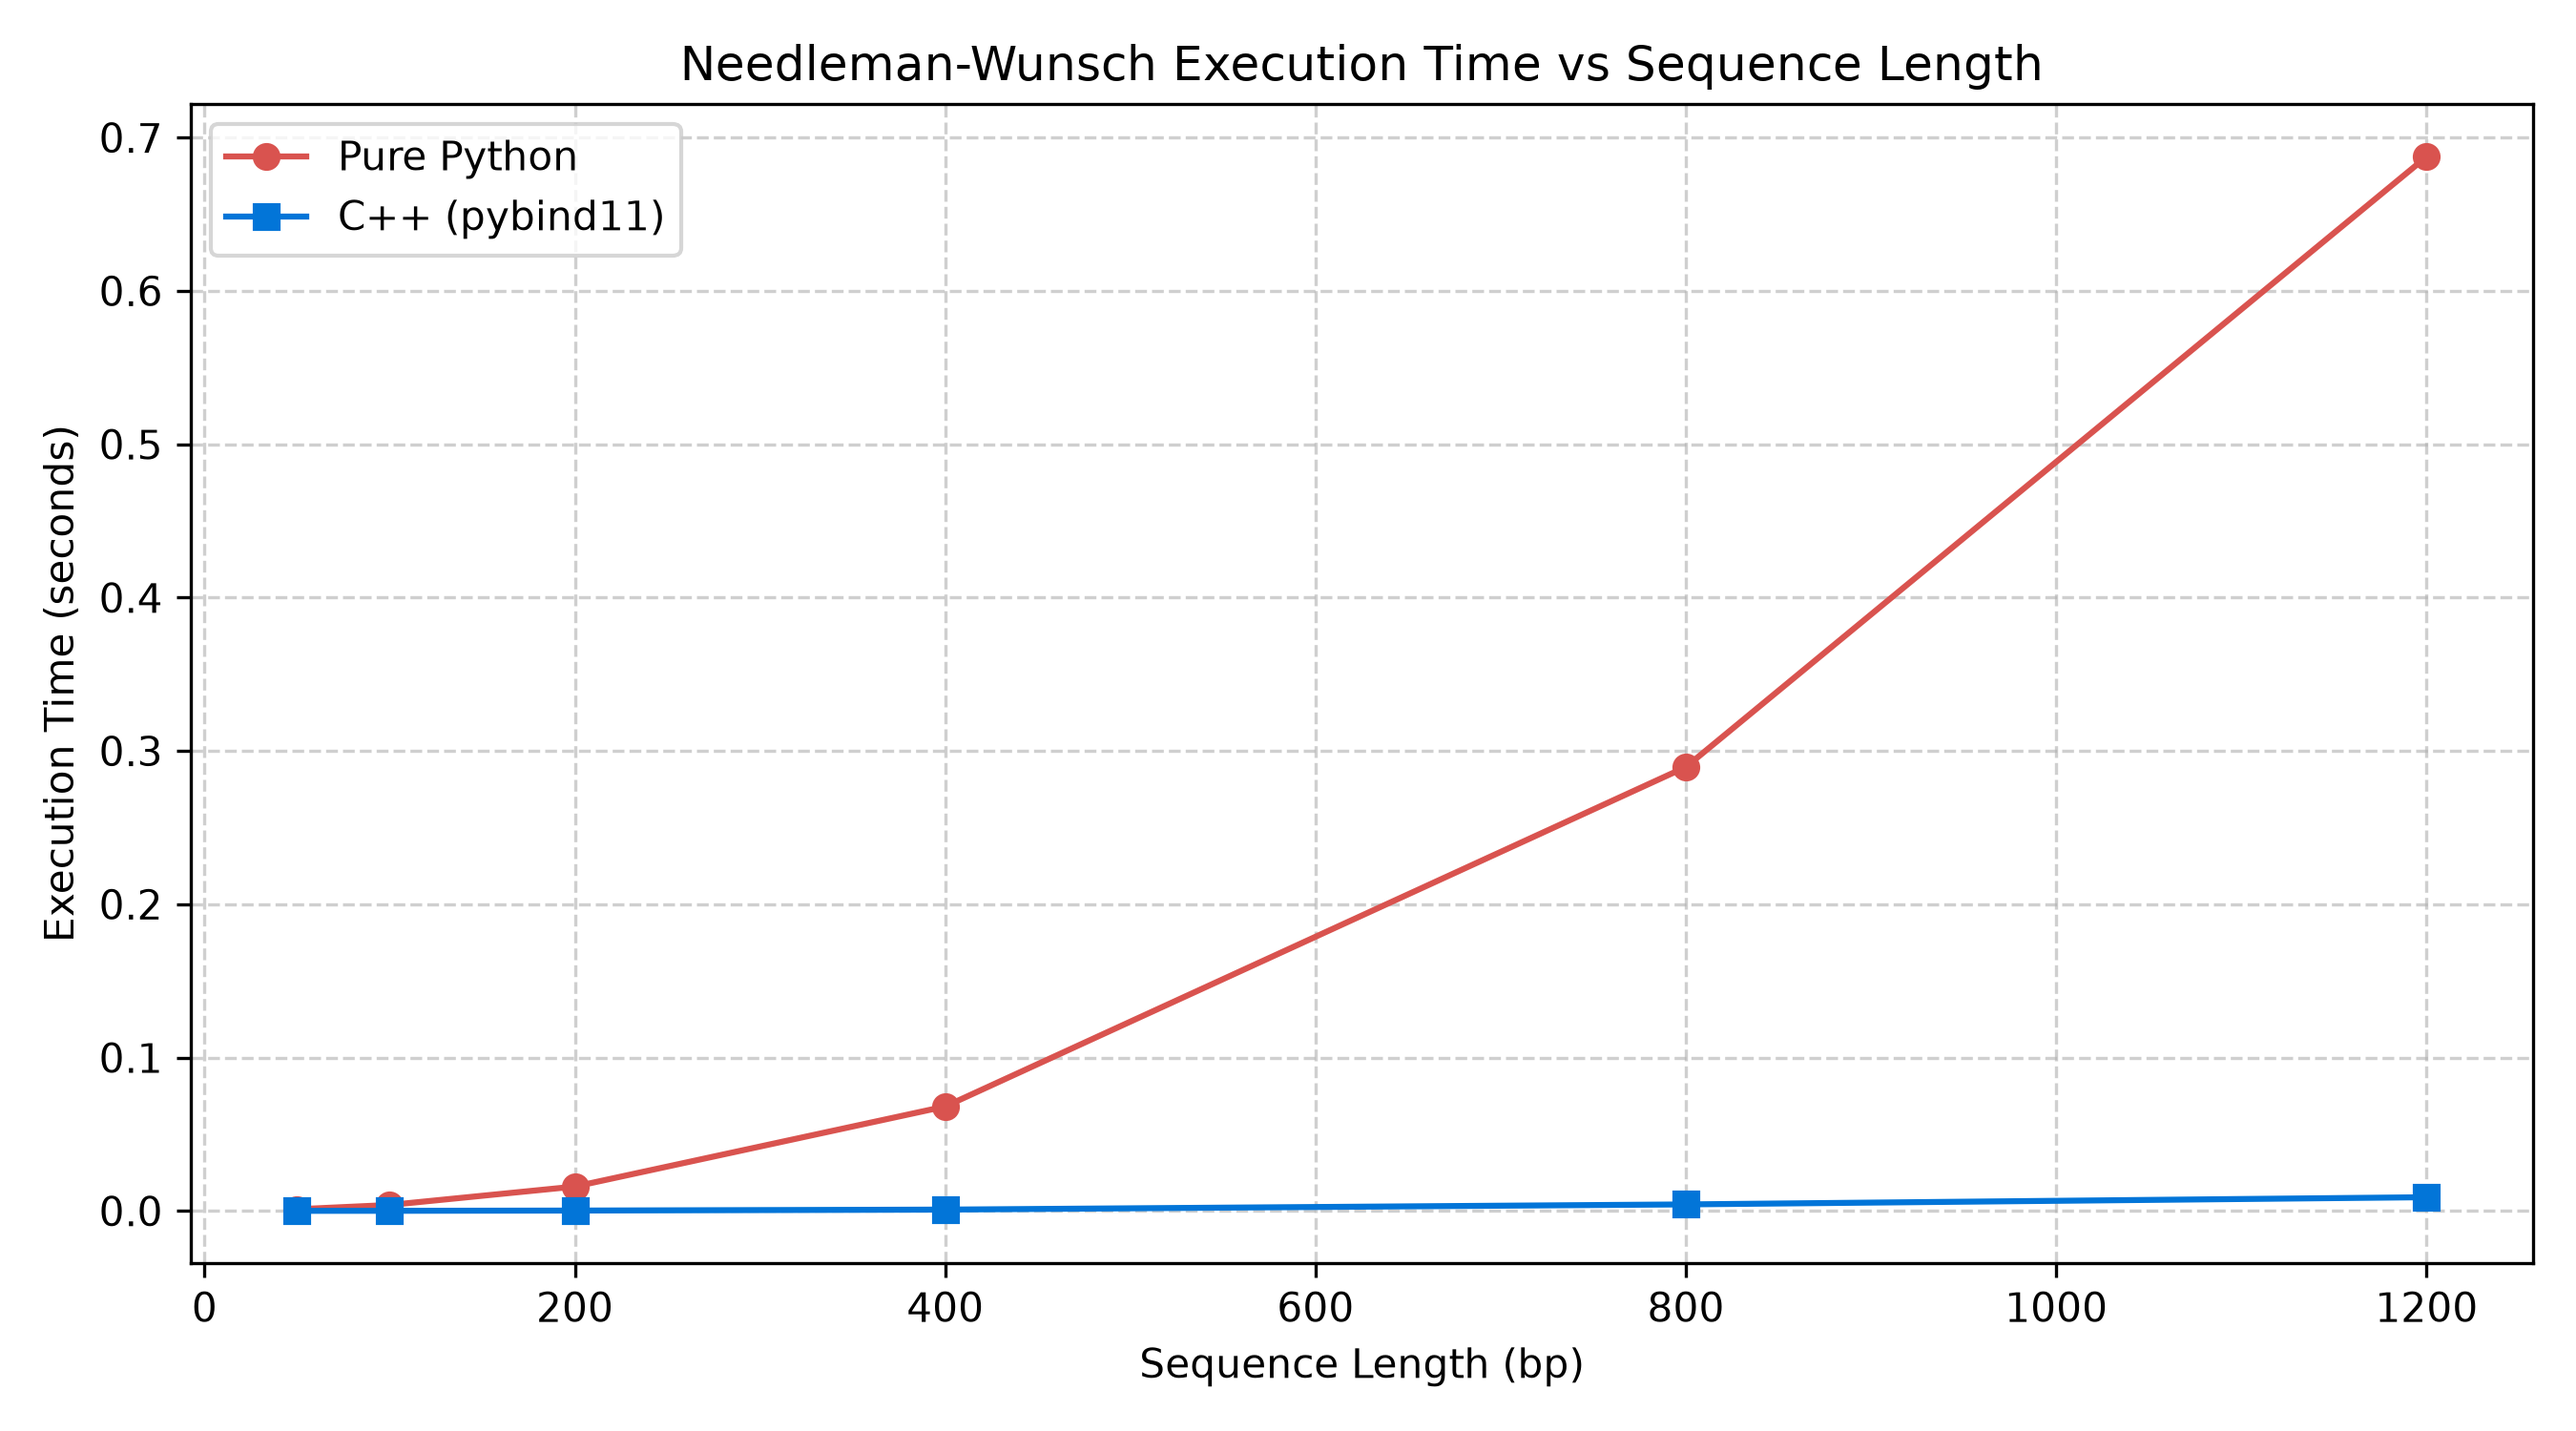
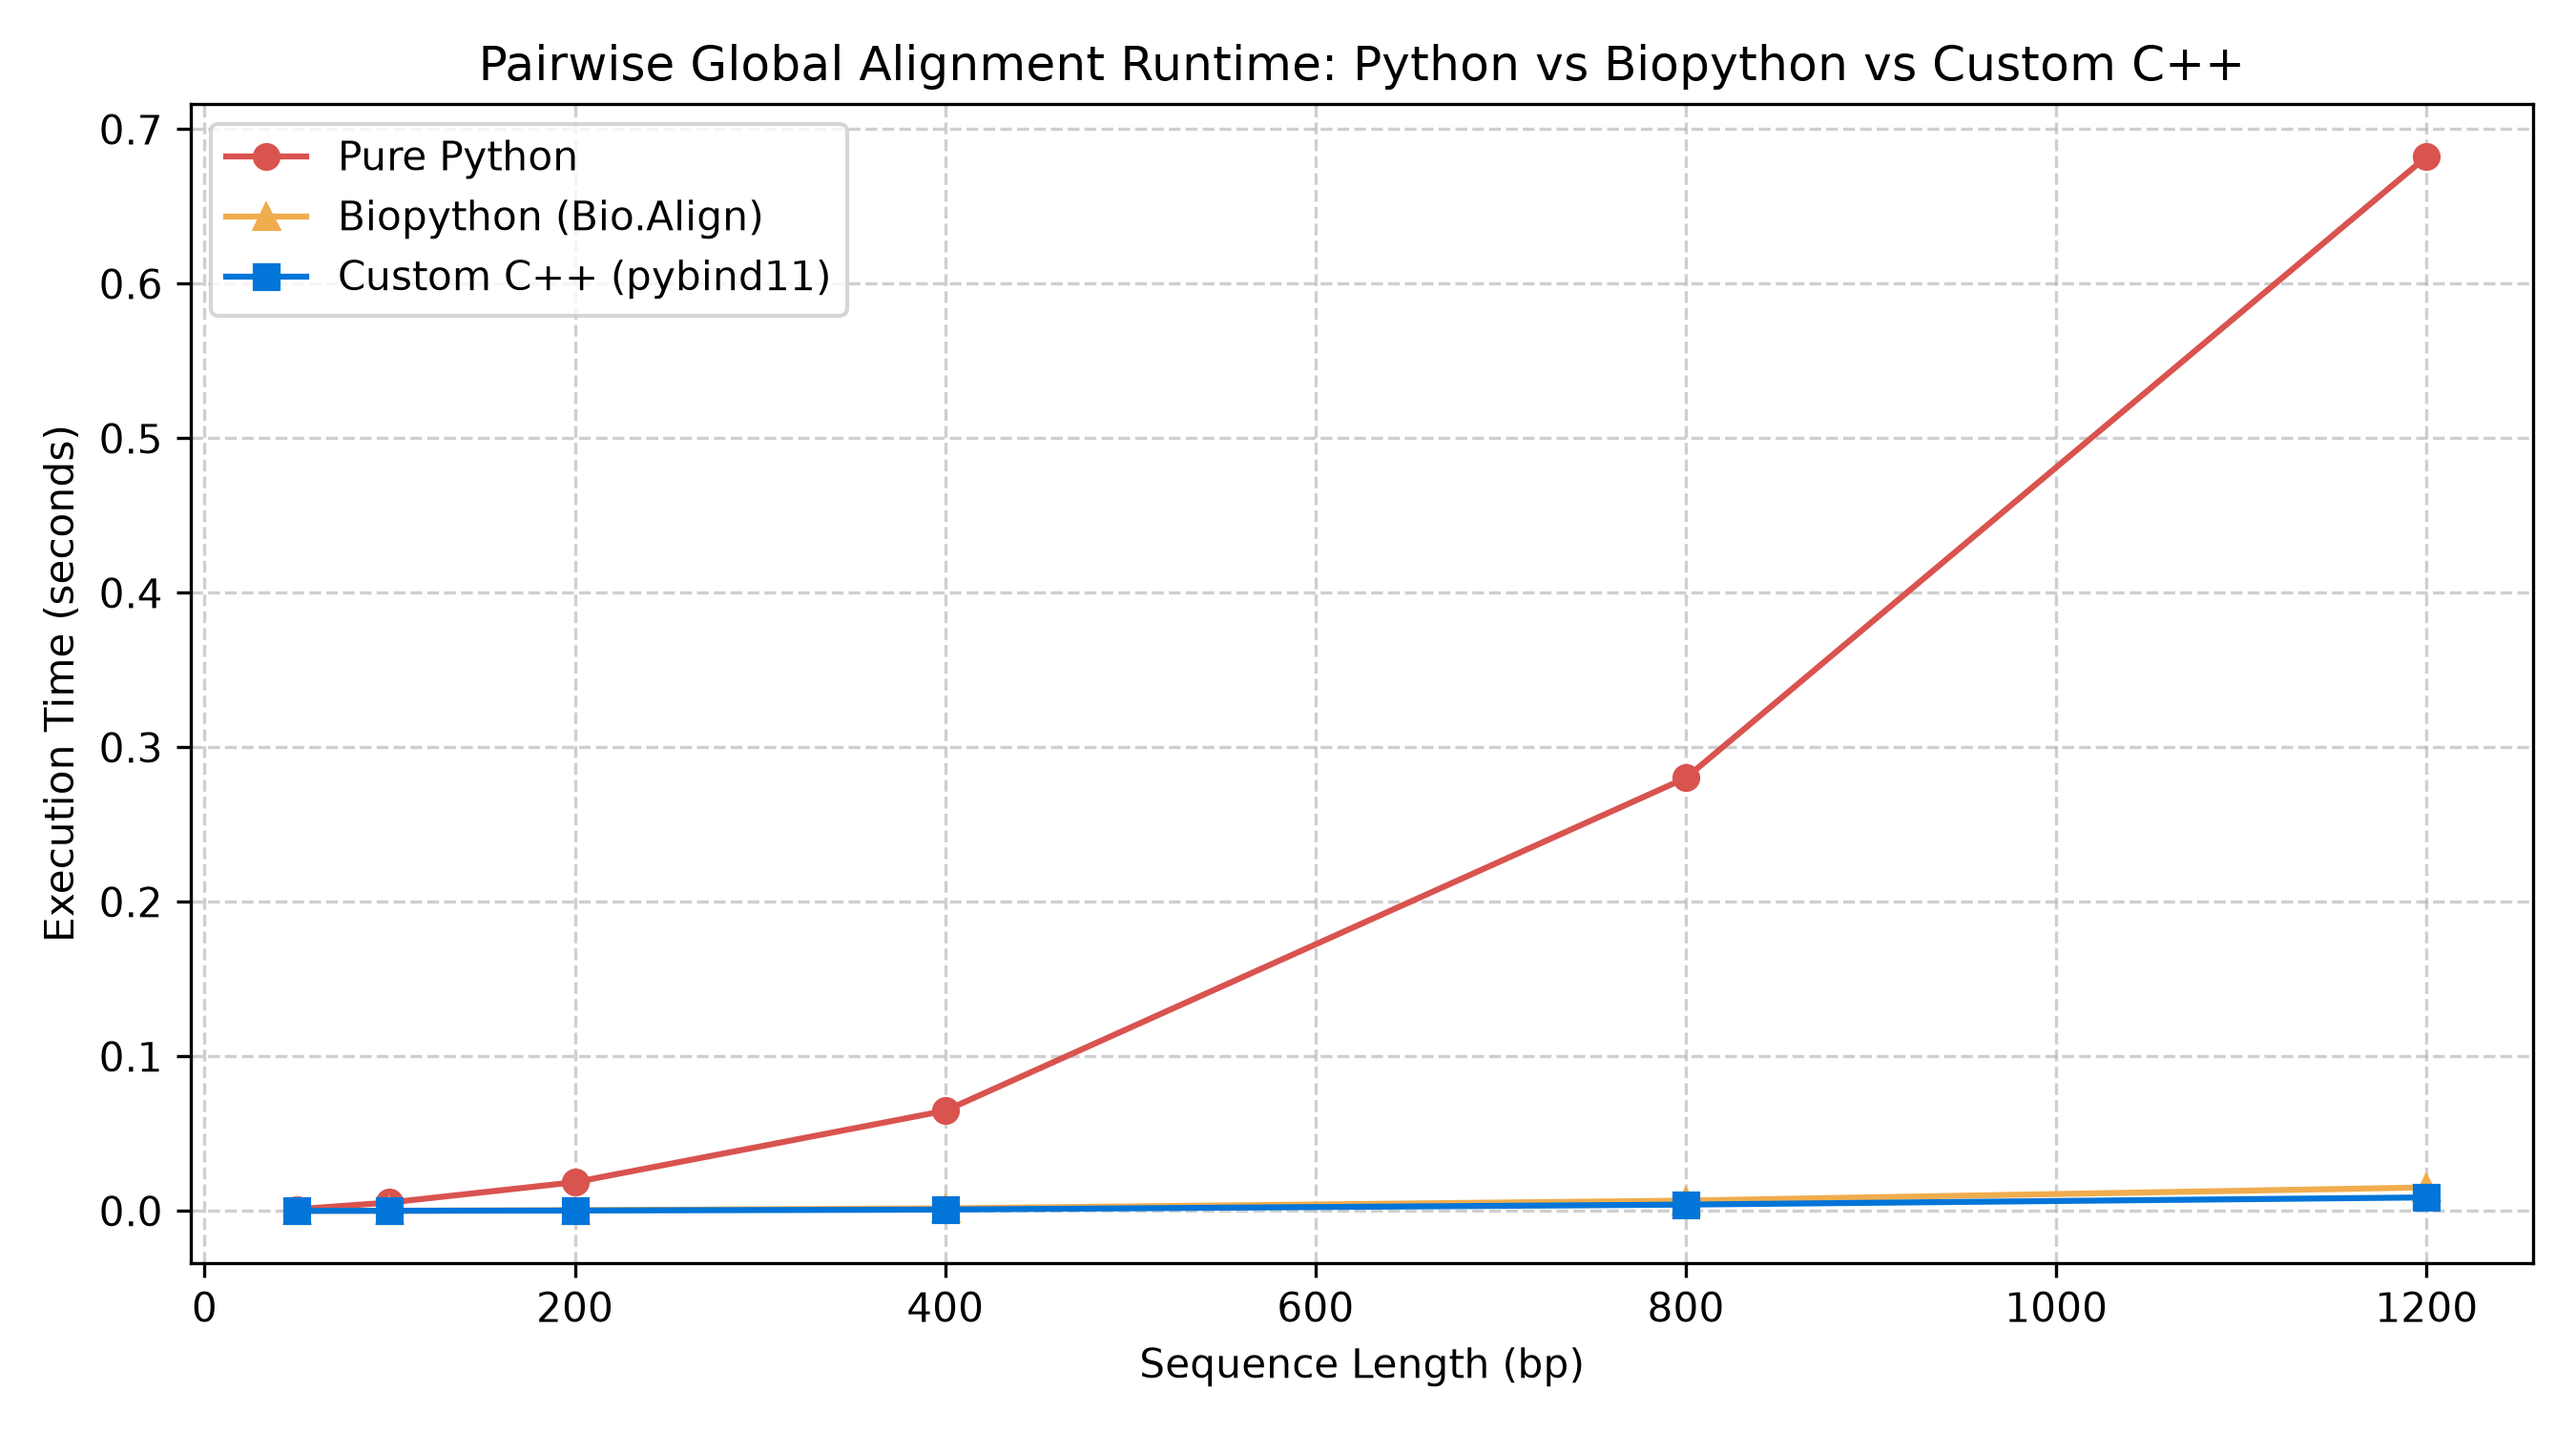
docs: finalize README with 3-way biopython benchmarks and complete usage guide

diff --git a/benchmark.py b/benchmark.py
@@ -3,10 +3,18 @@ import random
 import matplotlib.pyplot as plt
 from aligner import SequenceAligner
 
+try:
+    from Bio.Align import PairwiseAligner
+    BIOPYTHON_AVAILABLE = True
+except ImportError:
+    BIOPYTHON_AVAILABLE = False
+
+
 def generate_random_sequence(length: int) -> str:
     return "".join(random.choices(["A", "C", "G", "T"], k=length))
 
-def time_alignment(aligner_instance, s1: str, s2: str, runs: int = 3) -> float:
+
+def time_custom_aligner(aligner_instance, s1: str, s2: str, runs: int = 3) -> float:
     times = []
     for _ in range(runs):
         start = time.perf_counter()
@@ -14,44 +22,81 @@ def time_alignment(aligner_instance, s1: str, s2: str, runs: int = 3) -> float:
         times.append(time.perf_counter() - start)
     return min(times)
 
+
+def time_biopython_aligner(bio_aligner, s1: str, s2: str, runs: int = 3) -> float:
+    times = []
+    for _ in range(runs):
+        start = time.perf_counter()
+        # Find one optimal alignment path rather than enumerating all co-optimal paths
+        alignments = bio_aligner.align(s1, s2)
+        _ = alignments[0]
+        times.append(time.perf_counter() - start)
+    return min(times)
+
+
 def run_benchmarks():
     py_aligner = SequenceAligner(use_cpp=False)
     cpp_aligner = SequenceAligner(use_cpp=True)
 
+    bio_aligner = None
+    if BIOPYTHON_AVAILABLE:
+        bio_aligner = PairwiseAligner(mode="global")
+        bio_aligner.match_score = 2
+        bio_aligner.mismatch_score = -1
+        bio_aligner.open_gap_score = -2
+        bio_aligner.extend_gap_score = -2
+
     lengths = [50, 100, 200, 400, 800, 1200]
     py_times = []
     cpp_times = []
+    bio_times = []
 
-    print(f"{'Length':<10} | {'Python (s)':<12} | {'C++ (s)':<12} | {'Speedup':<10}")
-    print("-" * 52)
+    header = f"{'Length':<8} | {'Pure Py (s)':<12} | {'C++ (s)':<10} | {'Biopython (s)':<14} | {'vs Py':<8} | {'vs Bio':<8}"
+    print(header)
+    print("-" * len(header))
 
-    for l in lengths:
-        s1 = generate_random_sequence(l)
-        s2 = generate_random_sequence(l)
+    for length in lengths:
+        s1 = generate_random_sequence(length)
+        s2 = generate_random_sequence(length)
 
-        # Time pure Python
-        t_py = time_alignment(py_aligner, s1, s2)
+        # 1. Pure Python
+        t_py = time_custom_aligner(py_aligner, s1, s2)
         py_times.append(t_py)
 
-        # Time C++ extension
-        t_cpp = time_alignment(cpp_aligner, s1, s2)
+        # 2. C++ (pybind11)
+        t_cpp = time_custom_aligner(cpp_aligner, s1, s2)
         cpp_times.append(t_cpp)
 
-        speedup = t_py / t_cpp if t_cpp > 0 else 0
-        print(f"{l:<10} | {t_py:<12.5f} | {t_cpp:<12.5f} | {speedup:<10.1f}x")
+        # 3. Biopython (C backend)
+        t_bio = 0.0
+        if BIOPYTHON_AVAILABLE:
+            t_bio = time_biopython_aligner(bio_aligner, s1, s2)
+            bio_times.append(t_bio)
 
-    # Plot results
+        speedup_vs_py = f"{t_py / t_cpp:.1f}x" if t_cpp > 0 else "N/A"
+        speedup_vs_bio = f"{t_bio / t_cpp:.1f}x" if (t_cpp > 0 and t_bio > 0) else "N/A"
+
+        print(
+            f"{length:<8} | {t_py:<12.5f} | {t_cpp:<10.5f} | "
+            f"{t_bio:<14.5f} | {speedup_vs_py:<8} | {speedup_vs_bio:<8}"
+        )
+
+    # Visualization
     plt.figure(figsize=(9, 5))
     plt.plot(lengths, py_times, label="Pure Python", marker="o", color="#d9534f")
-    plt.plot(lengths, cpp_times, label="C++ (pybind11)", marker="s", color="#0275d8")
-    plt.title("Needleman-Wunsch Execution Time vs Sequence Length")
+    if BIOPYTHON_AVAILABLE:
+        plt.plot(lengths, bio_times, label="Biopython (Bio.Align)", marker="^", color="#f0ad4e")
+    plt.plot(lengths, cpp_times, label="Custom C++ (pybind11)", marker="s", color="#0275d8")
+
+    plt.title("Pairwise Global Alignment Runtime: Python vs Biopython vs Custom C++")
     plt.xlabel("Sequence Length (bp)")
     plt.ylabel("Execution Time (seconds)")
     plt.grid(True, linestyle="--", alpha=0.6)
     plt.legend()
     plt.tight_layout()
     plt.savefig("complexity_benchmark.png", dpi=300)
-    print("\nSaved benchmark plot to complexity_benchmark.png")
+    print("\nBenchmark complete. Saved updated scaling curve to complexity_benchmark.png")
+
 
 if __name__ == "__main__":
     run_benchmarks()

diff --git a/README.md b/README.md
@@ -26,24 +26,24 @@ Features a modular dual-backend architecture: an optimized **C++ extension via `
 
 - **Dual-Backend Architecture:** Seamlessly toggle between compiled C++ and pure Python backends via `use_cpp=True/False`.
 - **Hardware & Memory Optimization:** C++ core utilizes flattened 1D `std::vector<int>` memory indexing to guarantee contiguous memory layout, maximizing L1/L2 cache locality and bypassing CPython object-boxing overhead.
-- **Up to 80.5x Execution Speedup:** Reduces alignment latency on 1,200 bp sequences from ~0.69s down to 8.9ms.
+- **Competitive Throughput:** Consistently achieves up to a **93.9x speedup over pure Python** and executes **1.5x–1.9x faster than Biopython's C core**.
 - **Pointer Traceback:** Complete path reconstruction outputting aligned sequences with gap characters (`-`).
-- **Empirical Benchmarking & Testing:** Automated runtime profiling across sequence scaling tiers ($50 \times 50$ to $1200 \times 1200$) with Pytest verification across both backends.
+- **Empirical Benchmarking & Testing:** Automated runtime profiling across sequence scaling tiers ($50 \times 50$ to $1200 \times 1200$) comparing Pure Python, Biopython (`Bio.Align`), and the custom C++ engine with automated Pytest verification.
 
 ---
 
 ## Performance Benchmark
 
-Benchmarked across matching sequence lengths ($50$ to $1,200\text{ bp}$) comparing pure Python against the C++ extension (`benchmark.py`):
+Benchmarked across identical random DNA sequences comparing pure Python, Biopython (`Bio.Align.PairwiseAligner`), and the custom C++ core (`benchmark.py`):
 
-| Sequence Length (bp) | Pure Python (s) | C++ Extension (s) | Speedup |
-|:---------------------|:----------------|:------------------|:--------|
-| 50                   | 0.00109         | 0.00003           | 38.4x   |
-| 100                  | 0.00388         | 0.00006           | 67.8x   |
-| 200                  | 0.01588         | 0.00022           | 72.9x   |
-| 400                  | 0.06810         | 0.00085           | 80.5x   |
-| 800                  | 0.28949         | 0.00423           | 68.4x   |
-| 1200                 | 0.68748         | 0.00892           | 77.1x   |
+| Sequence Length (bp) | Pure Python (s) | Biopython (s) | Custom C++ (s) | Speedup vs Py | Speedup vs Bio |
+|:---------------------|:----------------|:--------------|:---------------|:--------------|:---------------|
+| 50                   | 0.00109         | 0.00002       | 0.00002        | 65.0x         | 1.5x           |
+| 100                  | 0.00542         | 0.00011       | 0.00006        | 93.9x         | 1.8x           |
+| 200                  | 0.01856         | 0.00043       | 0.00022        | 84.8x         | 1.9x           |
+| 400                  | 0.06480         | 0.00166       | 0.00085        | 76.2x         | 1.9x           |
+| 800                  | 0.28018         | 0.00665       | 0.00407        | 68.8x         | 1.6x           |
+| 1200                 | 0.68223         | 0.01518       | 0.00872        | 78.3x         | 1.7x           |
 
 ![Benchmark Plot](complexity_benchmark.png)
 
@@ -56,9 +56,72 @@ genomic-sequence-aligner/
 ├── src/
 │   └── aligner_core.cpp      # C++ dynamic programming inner loops & pybind11 module
 ├── aligner.py                # Python interface with dynamic C++/Python backend selection
-├── benchmark.py              # Empirical runtime profiler & matplotlib plotting
+├── benchmark.py              # 3-way empirical runtime profiler & matplotlib plotting
 ├── test_aligner.py           # Pytest unit verification suite
 ├── setup.py                  # C++ pybind11 extension compilation script
 ├── complexity_benchmark.png  # Generated runtime scaling comparison
 ├── requirements.txt          # Python dependencies
 └── README.md
+```
+
+---
+
+## Quickstart
+
+### 1. Installation & Environment Setup
+
+```bash
+git clone https://github.com/jaideepgorijavolu-oss/genomic-sequence-aligner.git
+cd genomic-sequence-aligner
+
+python -m venv venv
+# On Windows:
+.\venv\Scripts\Activate.ps1
+# On macOS/Linux:
+source venv/bin/activate
+
+pip install -r requirements.txt
+```
+
+### 2. Compile C++ Core Extension
+
+Compile the optimized backend module in-place:
+
+```bash
+python setup.py build_ext --inplace
+```
+
+---
+
+## Usage
+
+```python
+from aligner import SequenceAligner
+
+# Initialize aligner (defaults to C++ backend if compiled)
+aligner = SequenceAligner(match_score=2, mismatch_penalty=-1, gap_penalty=-2, use_cpp=True)
+
+# 1. Global Alignment (Needleman-Wunsch)
+seq1 = "GATTACA"
+seq2 = "GCATGCU"
+aligned1, aligned2, score = aligner.needleman_wunsch(seq1, seq2)
+print(f"Global Alignment (Score: {score}):\n{aligned1}\n{aligned2}")
+
+# 2. Local Alignment (Smith-Waterman)
+seqA = "AAAAAGATTACATTTTT"
+seqB = "CCCCCGATTACAGGGGG"
+sub1, sub2, local_score = aligner.smith_waterman(seqA, seqB)
+print(f"\nLocal Motif Match (Score: {local_score}):\n{sub1}\n{sub2}")
+```
+
+---
+
+## Verification & Profiling
+
+```bash
+# Run test suite
+pytest -v
+
+# Run comparative 3-way benchmark and regenerate complexity plot
+python benchmark.py
+```
